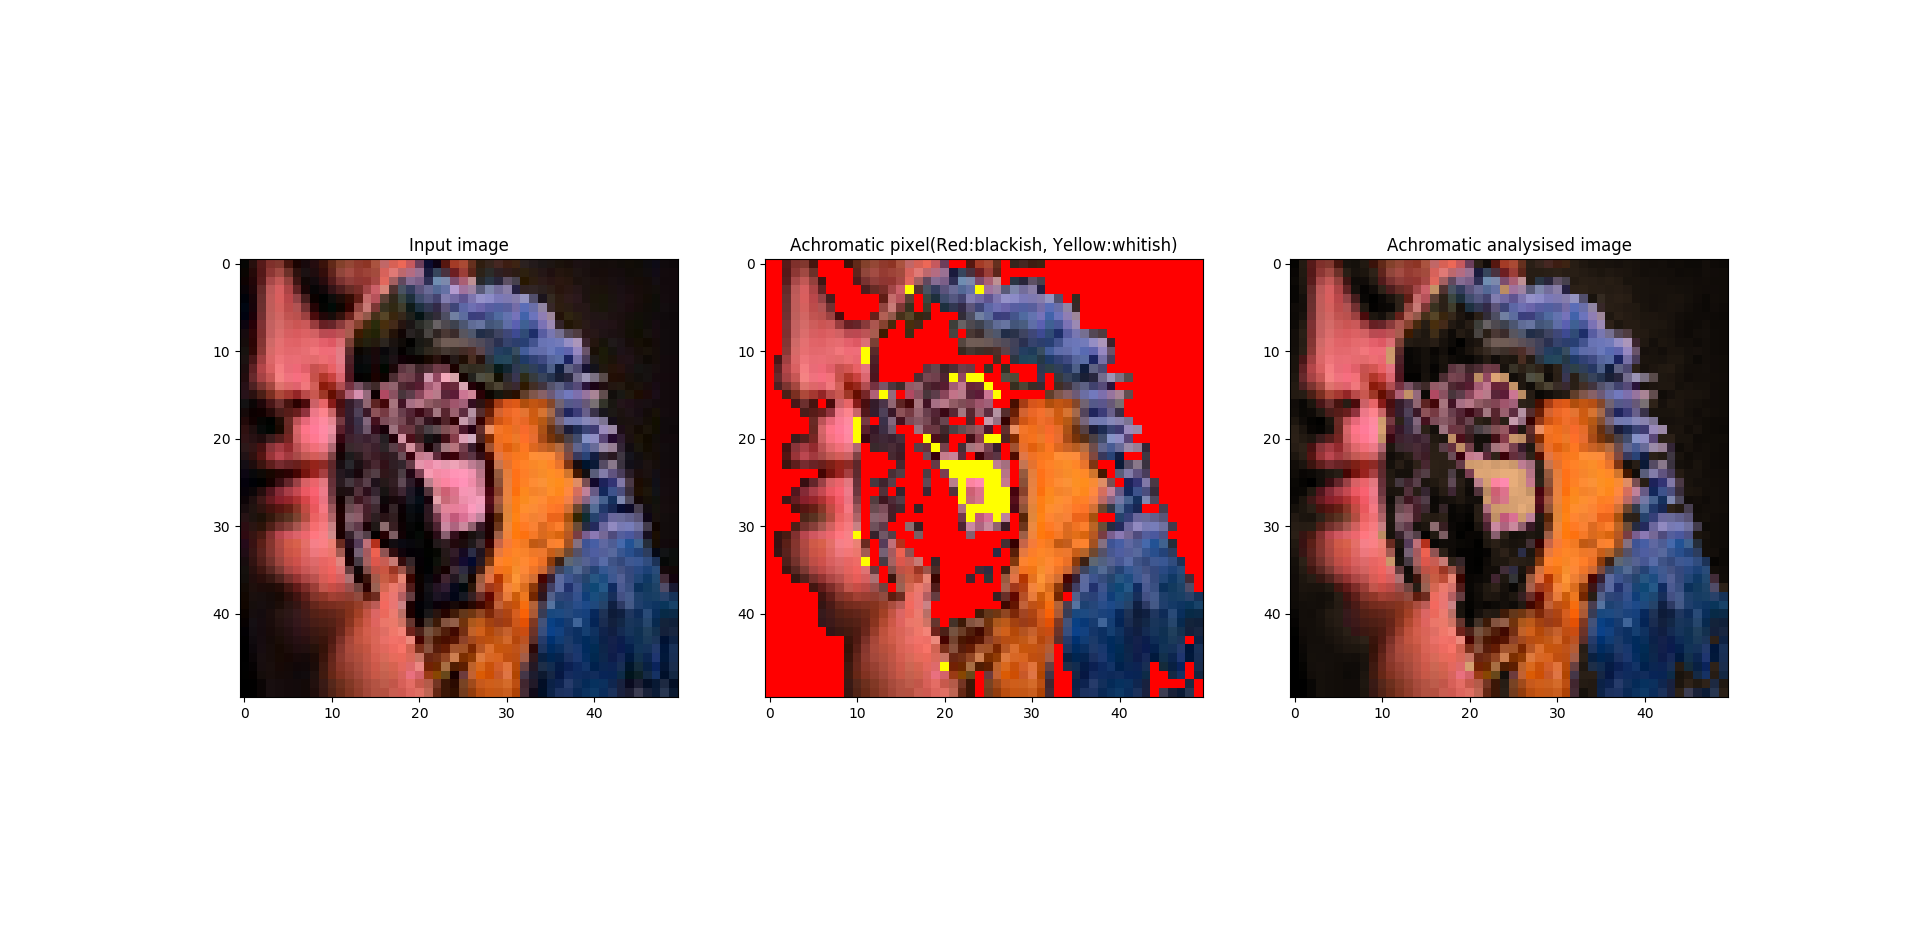
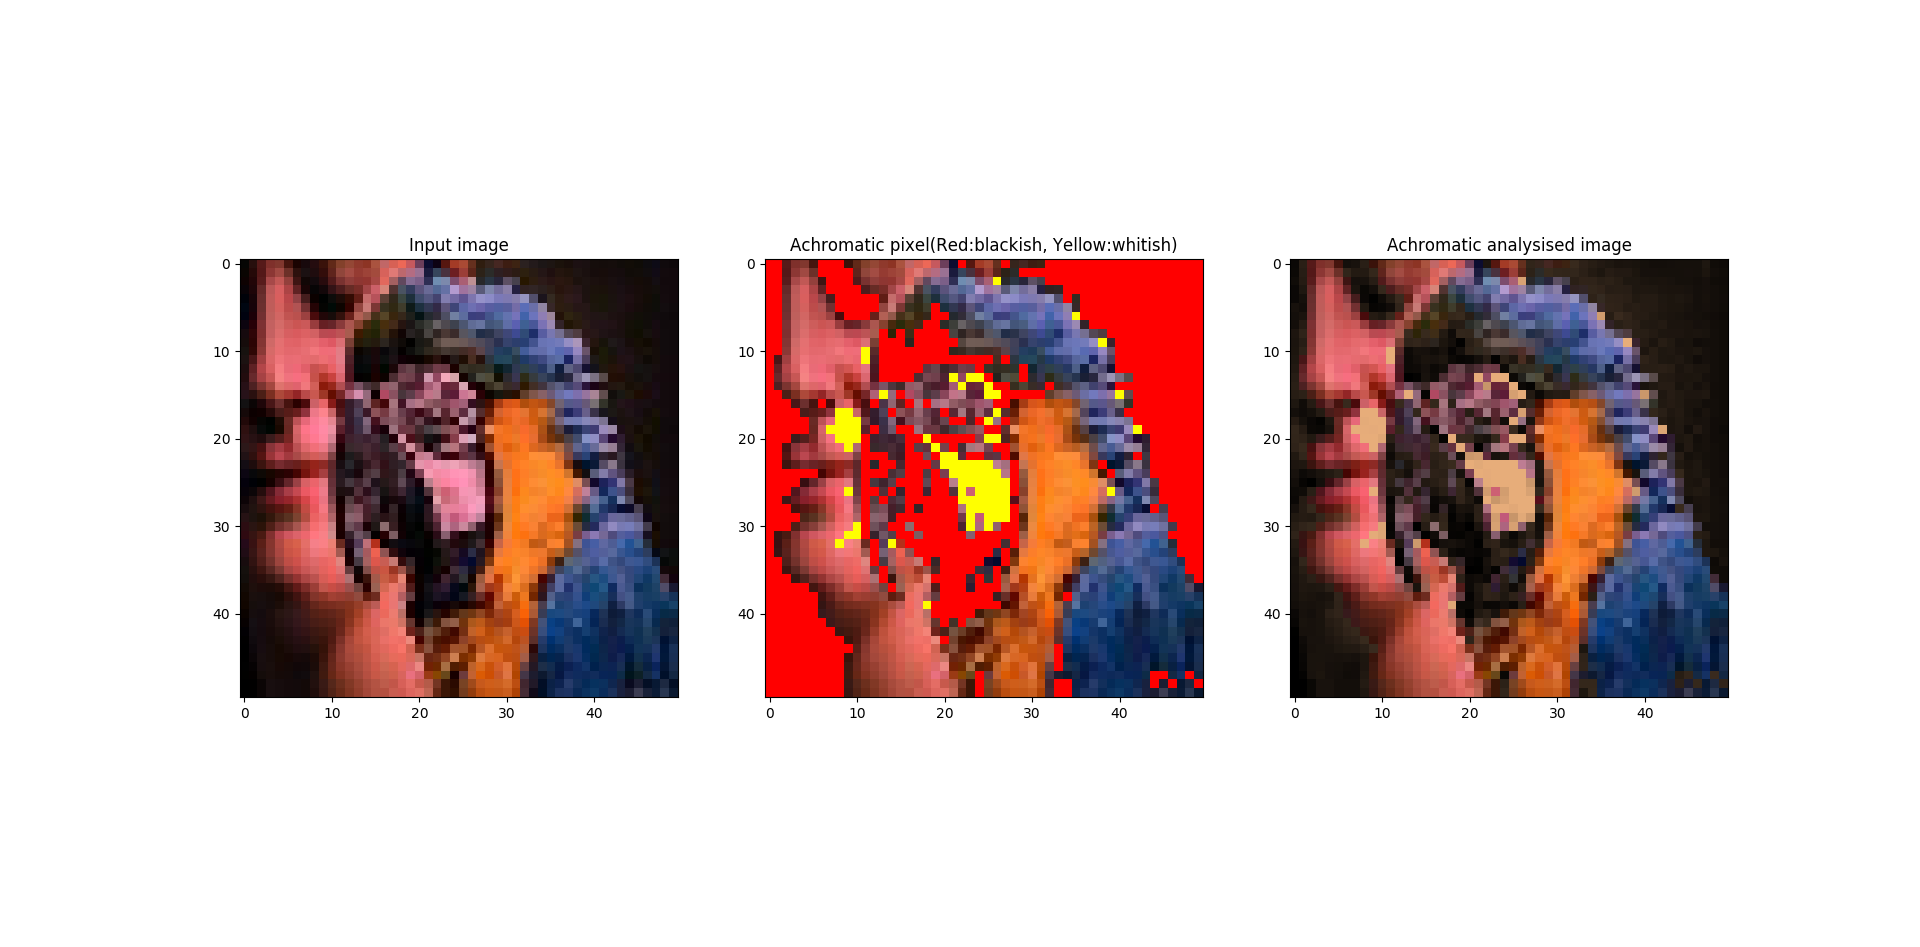
無彩色変換をエンハンス画像から取得するように変換

diff --git a/AchromaticAnalysis.py b/AchromaticAnalysis.py
@@ -42,21 +42,24 @@ def getImageRGBFromPath(filePath):
 
     return rgb, inputImg.shape[0], inputImg.shape[1]
 
-imgInputPath = "outimg/ACE2/ACEMethod1/BlendImage/"
-imgOutputPath = "outimg/ACE2/ACEMethod1/FinalSignalImage/"
-imgFileName = sys.argv[1] 
+imgInputPath         = "outimg/FinalResult/BlendImage/"
+enhancedImgInputpath = "outimg/FinalResult/EnhancedImage/"
+imgOutputPath        = "outimg/FinalResult/FinalSignalImage/"
+imgFileName = sys.argv[1]
+enhancedFileName = sys.argv[2] 
 
 #ブレンドした画像の読み込み
 RGB, imgH, imgW = getImageRGBFromPath(imgInputPath + imgFileName + ".jpg")
 inputRGB        = np.copy(RGB)
 maskRGB         = np.copy(RGB)
 analyzedRGB     = np.copy(RGB)
+enhancedRGB, w, h = getImageRGBFromPath(enhancedImgInputpath + enhancedFileName + ".jpg")
 
-HSV = colour.RGB_to_HSV(RGB)
+HSV = colour.RGB_to_HSV(enhancedRGB)
 
 #低彩度値の画素を抽出
-achromaticWhitePixelBool = np.where((HSV[:, 2] >= 0.80) & (HSV[:, 1] <= 0.45))
-achromaticBlackPixelBool = np.where(HSV[:, 2] <= 0.2)
+achromaticWhitePixelBool = np.where((HSV[:, 2] >= 0.86) & (HSV[:, 1] <= 0.27))
+achromaticBlackPixelBool = np.where(HSV[:, 2] <= 0.25)
 
 #対象領域の着色
 maskRGB[achromaticWhitePixelBool] = np.array([1, 1, 0])
